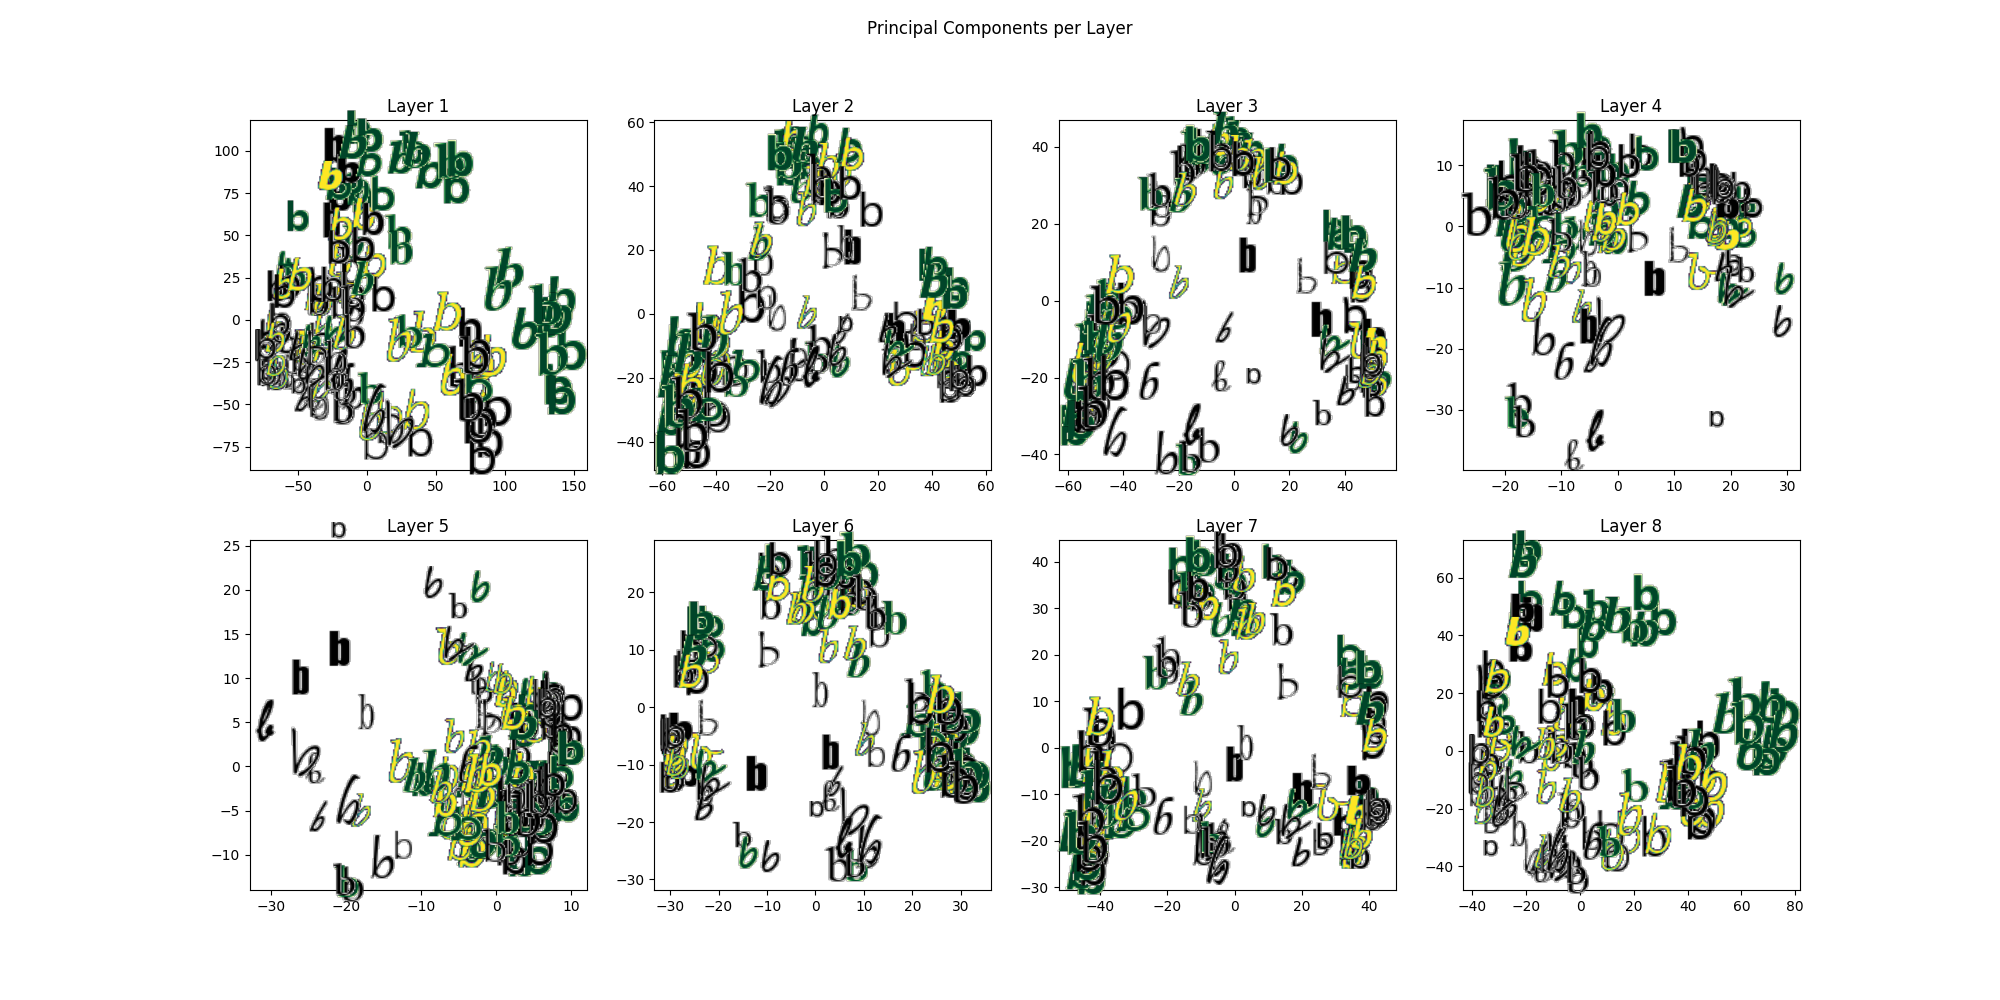
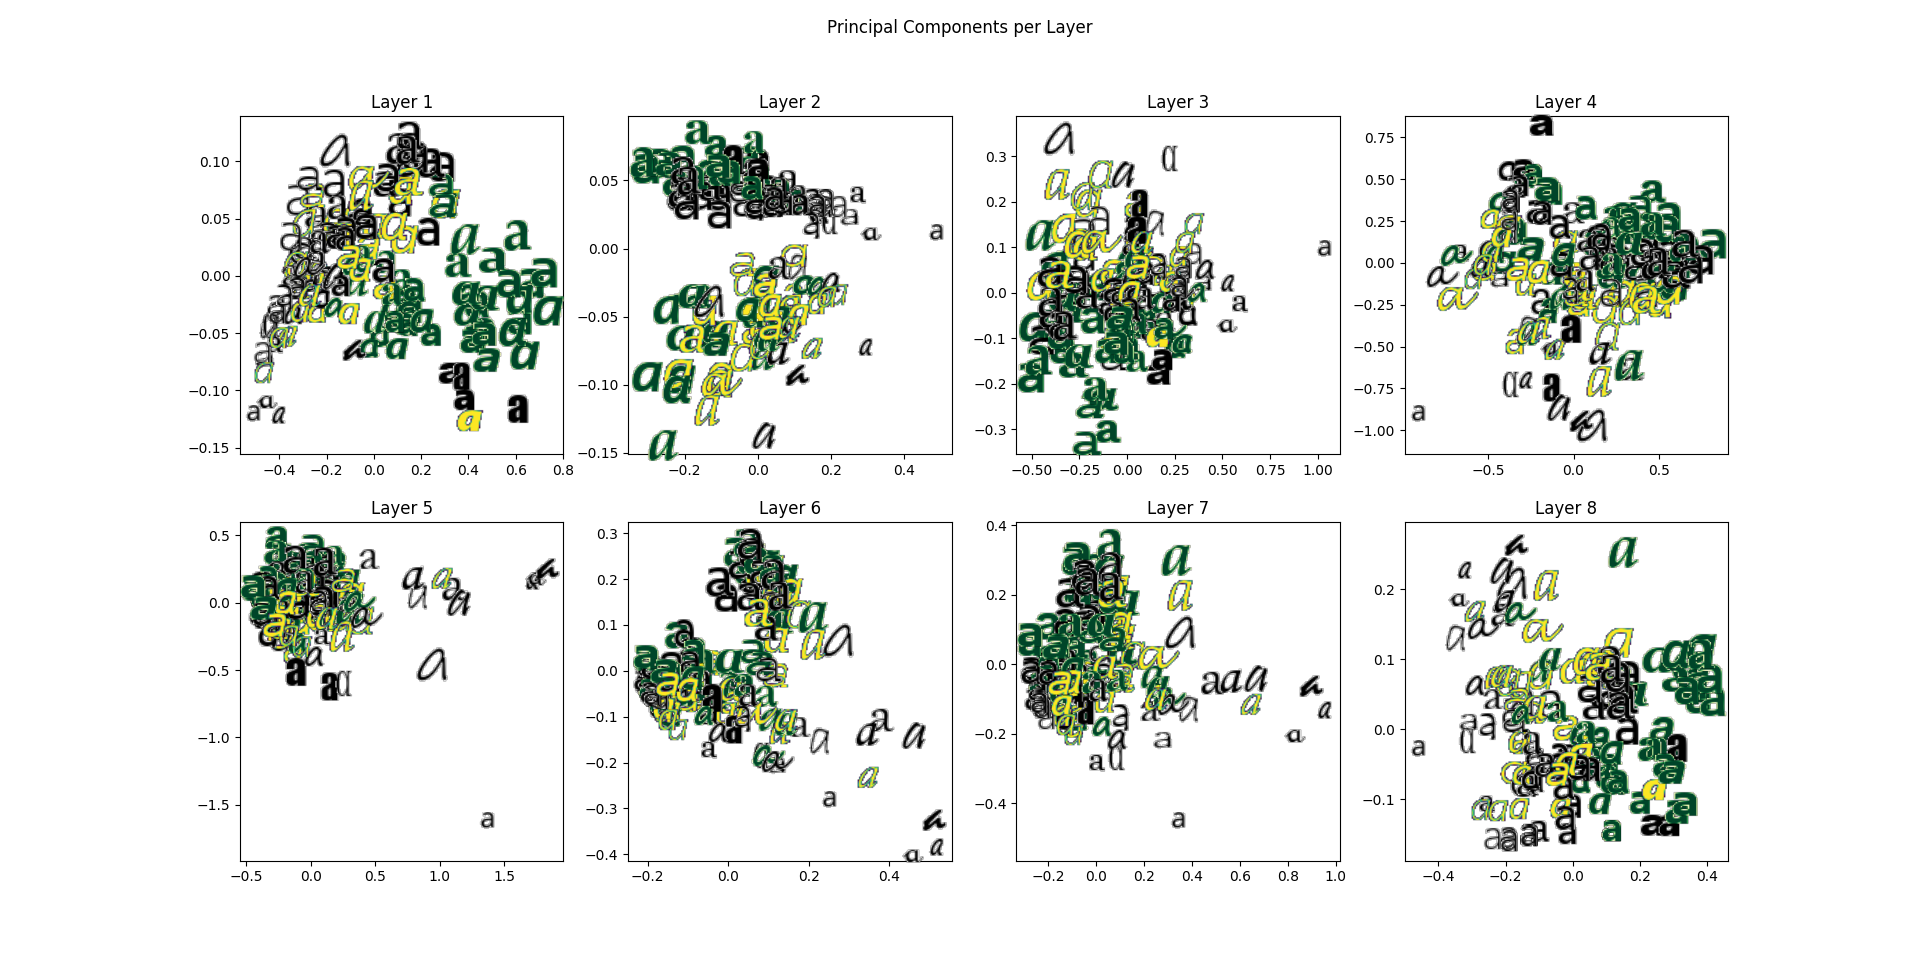
Extra small changes to visualizations

diff --git a/style/testing.py b/style/testing.py
@@ -67,174 +67,175 @@ def diff(matrix):
 
 # TODO: Refactor the mess
 if __name__ == "__main__":
-    model, config = UNet.load(os.path.join("checkpoints", "latest"))
+    model, config = UNet.load(os.path.join("..", "checkpoints", "latest"))
 
-    config.dataset.directory = os.path.join("data")
+    config.dataset.directory = os.path.join("..", "data")
     dataset = FontData(config.dataset, training=False)
 
     layers = config.model.layers * 2
 
-    # standardFonts = {
-    #     "Calibri": ["Regular", "Bold Italic", "Light Italic", "Light", "Italic", "Bold"],
-    #     "Arial": ["Regular", "Narrow", "Narrow Italic", "Narrow Bold Italic", "Narrow Bold",
-    #               "Italic", "Bold Italic", "Bold"],
-    #     "Times New Roman": ["Regular", "Bold", "Bold Italic", "Italic"]
-    # }
+    standardFonts = {
+        "Calibri": ["Regular", "Bold Italic", "Light Italic", "Light", "Italic", "Bold"],
+        "Arial": ["Regular", "Narrow", "Narrow Italic", "Narrow Bold Italic", "Narrow Bold",
+                  "Italic", "Bold Italic", "Bold"],
+        "Times New Roman": ["Regular", "Bold", "Bold Italic", "Italic"]
+    }
 
-    # # Compiling all available samples for the standard fonts
-    # namespaces = {font: {"reference": None} for font in standardFonts}
-    # for font in standardFonts:
-    #     for style in standardFonts[font]:
-    #         space = dataset.names == f"{font} {style}"
-    #         if namespaces[font]["reference"] is None:
-    #             namespaces[font]["reference"] = space
-    #             continue
-    #         namespaces[font][style] = space
+    # Compiling all available samples for the standard fonts
+    namespaces = {font: {"reference": None} for font in standardFonts}
+    for font in standardFonts:
+        for style in standardFonts[font]:
+            space = dataset.names == f"{font} {style}"
+            if namespaces[font]["reference"] is None:
+                namespaces[font]["reference"] = space
+                continue
+            namespaces[font][style] = space
 
-    # # Getting reference "unstyled" glyph predictions and targets
-    # references = {}
-    # for font in namespaces:
-    #     namespace = namespaces[font]["reference"]
-    #     inputs = dataset.pairs[namespace][:, 0]
-    #     targets = dataset.pairs[namespace][:, 1]
-    #     with torch.no_grad():
-    #         inputs = torch.tensor(inputs, dtype=torch.float32).squeeze().unsqueeze(-1)
-    #         output, classification = model(inputs)
-    #     references[font] = output, targets
+    # Getting reference "unstyled" glyph predictions and targets
+    references = {}
+    for font in namespaces:
+        namespace = namespaces[font]["reference"]
+        inputs = dataset.pairs[namespace][:, 0]
+        targets = dataset.pairs[namespace][:, 1]
+        with torch.no_grad():
+            inputs = torch.tensor(inputs, dtype=torch.float32).squeeze().unsqueeze(-1)
+            output, classification = model(inputs)
+        references[font] = output, targets
 
-    # for font in namespaces:
-    #     series = {}
-    #     for style in namespaces[font]:
-    #         if style == "reference":
-    #             continue
+    for font in namespaces:
+        series = {}
+        for style in namespaces[font]:
+            if style == "reference":
+                continue
 
-    #         namespace = namespaces[font][style]
-    #         inputs = dataset.pairs[namespace][:, 0]
-    #         targets = dataset.pairs[namespace][:, 1]
-    #         with torch.no_grad():
-    #             inputs = torch.tensor(inputs, dtype=torch.float32).squeeze().unsqueeze(-1)
-    #             output, classification = model(inputs)
+            namespace = namespaces[font][style]
+            inputs = dataset.pairs[namespace][:, 0]
+            targets = dataset.pairs[namespace][:, 1]
+            with torch.no_grad():
+                inputs = torch.tensor(inputs, dtype=torch.float32).squeeze().unsqueeze(-1)
+                output, classification = model(inputs)
 
-    #         referenceOrder = dataset.letters[namespaces[font]["reference"]]
-    #         styleOrder = dataset.letters[namespace]
+            referenceOrder = dataset.letters[namespaces[font]["reference"]]
+            styleOrder = dataset.letters[namespace]
 
-    #         refPred, refTarget = references[font]
+            refPred, refTarget = references[font]
 
-    #         referenceDF = pd.DataFrame({"letter": referenceOrder,
-    #                                     "refTarget": listify(refTarget), "refPrediction": listify(refPred)})
-    #         styleDF = pd.DataFrame({"letter": styleOrder,
-    #                                 "styleTarget": listify(targets), "stylePrediction": listify(output)})
+            referenceDF = pd.DataFrame({"letter": referenceOrder,
+                                        "refTarget": listify(refTarget), "refPrediction": listify(refPred)})
+            styleDF = pd.DataFrame({"letter": styleOrder,
+                                    "styleTarget": listify(targets), "stylePrediction": listify(output)})
 
-    #         joined = pd.merge(styleDF, referenceDF, how="inner", on="letter")
+            joined = pd.merge(styleDF, referenceDF, how="inner", on="letter")
 
-    #         series[f"{style} ({len(joined)})"] = [
-    #             batchCorrelation(joined.refTarget.to_numpy()[i], joined.styleTarget.to_numpy()[i],
-    #                              joined.refPrediction.to_numpy()[i], joined.stylePrediction.to_numpy()[i])[0]
-    #             for i in range(len(joined))
-    #         ]
+            series[f"{style} ({len(joined)})"] = [
+                batchCorrelation(joined.refTarget.to_numpy()[i], joined.styleTarget.to_numpy()[i],
+                                 joined.refPrediction.to_numpy()[i], joined.stylePrediction.to_numpy()[i])[0]
+                for i in range(len(joined))
+            ]
 
-    #     x = series.keys()
-    #     y = [series[key] for key in x]
+        x = series.keys()
+        y = [series[key] for key in x]
 
-    #     ax = plt.subplot(1, 1, 1)
-    #     ax.boxplot(y)
-    #     ax.set_xticklabels(x)
-    #     # ax.set_xticks(range(1, len(x) + 1), x, rotation=45)
-    #     ax.set_xlabel("Style")
-    #     ax.set_ylabel("Correlation")
-    #     ax.grid()
+        ax = plt.subplot(1, 1, 1)
+        ax.boxplot(y)
+        ax.set_xticklabels(x)
+        # ax.set_xticks(range(1, len(x) + 1), x, rotation=45)
+        ax.set_xlabel("Style")
+        ax.set_ylabel("Correlation")
+        ax.grid()
 
-    #     plt.title(f"{font} Style Correlations")
-    #     plt.show()
+        plt.title(f"{font} Style Correlations")
+        plt.show()
 
     # # Getting all the activations for every font with every character in the latin alphabet
-    # comparativeFonts = ["Edwardian Script ITC", "Calibri", "Comic Sans MS", "Broadway", "Jokerman", "Wide Latin"]
+    comparativeFonts = ["Edwardian Script IT", "Pristina", "Calibri", "Comic Sans MS", "Impact", "Broadway", "Jokerman"]
     testCharacters = [chr(c) for c in latin]
-    # ablationActivations = []
-    # for font in comparativeFonts:
-    #     fontActivations = []
-    #     for character in testCharacters:
-    #         # Just plainly wasteful, but keeps things in order without sorting so idc
-    #         if np.sum(np.bitwise_and(dataset.names == f"{font} Regular", dataset.letters == character)) == 0:
-    #             print(font, character)
-    #         pair = dataset.pairs[np.bitwise_and(dataset.names == f"{font} Regular", dataset.letters == character)]
-    #         with torch.no_grad():
-    #             inputs = torch.tensor(pair[:, 0], dtype=torch.float32).squeeze().unsqueeze(0).unsqueeze(-1)
-    #             activations = model.activations(inputs)
-    #         fontActivations.append(activations)
+    ablationActivations = []
+    for font in comparativeFonts:
+        fontActivations = []
+        for character in testCharacters:
+            # Just plainly wasteful, but keeps things in order without sorting so idc
+            if np.sum(np.bitwise_and(dataset.names == f"{font} Regular", dataset.letters == character)) == 0:
+                print(font, character)
+            pair = dataset.pairs[np.bitwise_and(dataset.names == f"{font} Regular", dataset.letters == character)]
+            with torch.no_grad():
+                inputs = torch.tensor(pair[:, 0], dtype=torch.float32).squeeze().unsqueeze(0).unsqueeze(-1)
+                activations = model.activations(inputs)
+            fontActivations.append(activations)
 
-    #     ablationActivations.append(fontActivations)
+        ablationActivations.append(fontActivations)
 
-    # # All possible combinations of layer activation similarities
-    # # Yes this is perhaps the single most revolting bit of code I have ever written
-    # ablationMatrix = np.zeros([layers, len(comparativeFonts), len(comparativeFonts), len(testCharacters), len(testCharacters)])
-    # for f1 in range(len(comparativeFonts)):
-    #     for f2 in range(len(comparativeFonts)):
-    #         for c1 in range(len(testCharacters)):
-    #             for c2 in range(len(testCharacters)):
-    #                 for l in range(layers):
-    #                     x = ablationActivations[f1][c1][l].flatten()
-    #                     y = ablationActivations[f2][c2][l].flatten()
-    #                     ablationMatrix[l, f1, f2, c1, c2] = nn.functional.cosine_similarity(x, y, dim=0).item()
+    # All possible combinations of layer activation similarities
+    # Yes this is perhaps the single most revolting bit of code I have ever written
+    ablationMatrix = np.zeros([layers, len(comparativeFonts), len(comparativeFonts), len(testCharacters), len(testCharacters)])
+    for f1 in range(len(comparativeFonts)):
+        for f2 in range(len(comparativeFonts)):
+            for c1 in range(len(testCharacters)):
+                for c2 in range(len(testCharacters)):
+                    for l in range(layers):
+                        x = ablationActivations[f1][c1][l].flatten()
+                        y = ablationActivations[f2][c2][l].flatten()
+                        ablationMatrix[l, f1, f2, c1, c2] = nn.functional.cosine_similarity(x, y, dim=0).item()
 
     width = int(math.ceil(math.sqrt(layers * 2)))
     height = int(math.ceil(layers / width))
-    # for layer in range(layers):
-    #     mask = np.eye(len(testCharacters), dtype=bool)
-    #     mask = np.expand_dims(mask, (0, 1))
+    for layer in range(layers):
+        mask = np.eye(len(testCharacters), dtype=bool)
+        mask = np.expand_dims(mask, (0, 1))
 
-    #     observe = np.where(mask, 0, ablationMatrix[layer])
+        observe = np.where(mask, 0, ablationMatrix[layer])
         
-    #     # Weighted sum (char 1 = char 2 has a weight of 0)
-    #     correlation = np.sum(observe, axis=(2, 3))
-    #     correlation = correlation / np.sum(~mask, axis=(2, 3))
+        # Weighted sum (char 1 = char 2 has a weight of 0)
+        correlation = np.sum(observe, axis=(2, 3))
+        correlation = correlation / np.sum(~mask, axis=(2, 3))
 
-    #     ax = plt.subplot(height, width, layer + 1)
-    #     ax.set_title(f"Layer {layer + 1} (Mean Diff: {diff(correlation):.2f})")
+        ax = plt.subplot(height, width, layer + 1)
+        ax.set_title(f"Layer {layer + 1} (Mean Diff: {diff(correlation):.2f})")
 
-    #     correlation = np.flip(correlation, axis=0)
-    #     ax.imshow(correlation, cmap="binary_r", vmin=0, vmax=1)
+        correlation = np.flip(correlation, axis=0)
+        ax.imshow(correlation, cmap="binary_r", vmin=0, vmax=1)
 
-    #     ax.set_xticks(range(len(comparativeFonts)), comparativeFonts, rotation=45, ha="right", rotation_mode="anchor")
-    #     ax.set_yticks(range(len(comparativeFonts)), comparativeFonts[::-1])
+        ax.set_xticks(range(len(comparativeFonts)), comparativeFonts, rotation=45, ha="right", rotation_mode="anchor")
+        ax.set_yticks(range(len(comparativeFonts)), comparativeFonts[::-1])
 
-    #     for i in range(correlation.shape[0]):
-    #         for j in range(correlation.shape[0]):
-    #             value = correlation[i, j]
-    #             color = "k" if (value > np.percentile(correlation, 40)) else "w"
-    #             text = ax.text(j, i, f"{value:.2f}", ha="center", va="center", color=color)
+        for i in range(correlation.shape[0]):
+            for j in range(correlation.shape[0]):
+                value = correlation[i, j]
+                color = "k" if (value > np.percentile(correlation, 40)) else "w"
+                text = ax.text(j, i, f"{value:.2f}", ha="center", va="center", color=color)
 
-    # plt.suptitle("Layer Activation Cosine Similarity (c1 != c2)")
-    # plt.show()
+    plt.suptitle("Layer Activation Cosine Similarity (c1 != c2)")
+    plt.show()
 
-    # for layer in range(layers):
-    #     mask = np.eye(len(testCharacters), dtype=bool)
-    #     mask = np.expand_dims(mask, (0, 1))
+    for layer in range(layers):
+        mask = np.eye(len(testCharacters), dtype=bool)
+        mask = np.expand_dims(mask, (0, 1))
 
-    #     observe = np.where(mask, ablationMatrix[layer], 0)
+        observe = np.where(mask, ablationMatrix[layer], 0)
         
-    #     correlation = np.sum(observe, axis=(2, 3))
-    #     correlation = correlation / np.sum(mask, axis=(2, 3))
+        correlation = np.sum(observe, axis=(2, 3))
+        correlation = correlation / np.sum(mask, axis=(2, 3))
 
-    #     ax = plt.subplot(height, width, layer + 1)
-    #     ax.set_title(f"Layer {layer + 1} (Mean Diff: {diff(correlation):.2f})")
+        ax = plt.subplot(height, width, layer + 1)
+        ax.set_title(f"Layer {layer + 1} (Mean Diff: {diff(correlation):.2f})")
 
-    #     correlation = np.flip(correlation, axis=0)
-    #     ax.imshow(correlation, cmap="binary_r", vmin=0, vmax=1)
+        correlation = np.flip(correlation, axis=0)
+        ax.imshow(correlation, cmap="binary_r", vmin=0, vmax=1)
 
-    #     ax.set_xticks(range(len(comparativeFonts)), comparativeFonts, rotation=45, ha="right", rotation_mode="anchor")
-    #     ax.set_yticks(range(len(comparativeFonts)), comparativeFonts[::-1])
+        ax.set_xticks(range(len(comparativeFonts)), comparativeFonts, rotation=45, ha="right", rotation_mode="anchor")
+        ax.set_yticks(range(len(comparativeFonts)), comparativeFonts[::-1])
 
-    #     for i in range(correlation.shape[0]):
-    #         for j in range(correlation.shape[0]):
-    #             value = correlation[i, j]
-    #             color = "k" if (value > np.percentile(correlation, 40)) else "w"
-    #             text = ax.text(j, i, f"{value:.2f}", ha="center", va="center", color=color)
+        for i in range(correlation.shape[0]):
+            for j in range(correlation.shape[0]):
+                value = correlation[i, j]
+                color = "k" if (value > np.percentile(correlation, 40)) else "w"
+                text = ax.text(j, i, f"{value:.2f}", ha="center", va="center", color=color)
 
-    # plt.suptitle("Layer Activation Cosine Similarity (c1 == c2)")
-    # plt.show()
+    plt.suptitle("Layer Activation Cosine Similarity (c1 == c2)")
+    plt.show()
 
     # Only latin characters, prevents character set skew
+    testCharacters = ["b"]
     mask = np.isin(dataset.letters, np.array(testCharacters))
     pairs = dataset.pairs[mask]
     names = dataset.names[mask]
@@ -268,7 +269,7 @@ if __name__ == "__main__":
                         activationCounts[layer][name] = 1
 
                     # Add reference image to dictionary
-                    if name not in allImages and batchLetters[n] == "a":
+                    if name not in allImages and batchLetters[n] == "b":
                         allImages[name] = batchImages[n]
 
         print(f"\r{j}/{len(pairs)} samples for PCA compiled", end="")
@@ -289,8 +290,8 @@ if __name__ == "__main__":
         components = PCA(n_components=2)
         data = torch.stack([value for key, value in allActivations[layer].items()], dim=0).cpu().numpy()
         shape = data.shape
-        # data = np.mean(data, axis=(2, 3))
-        data = data.reshape(data.shape[0], -1)
+        data = np.mean(data, axis=(2, 3))
+        # data = data.reshape(data.shape[0], -1)
         print(f"Training PCA from {data.shape[1]} -> 2 dimensions for layer {layer + 1} (Originally {shape})")
 
         transformed = components.fit_transform(data)

diff --git a/utils/data.py b/utils/data.py
@@ -84,24 +84,25 @@ class FontData(Dataset):
             print(f"\rFonts serialized: {f + 1}/{len(fontPaths)}", end="")
 
         # Creating SDFs from all the bitmaps
-        imagePaths = glob(os.path.join(config.directory, "bitmaps", "*"))
-        for i, imagePath in enumerate(imagePaths):
-            try:
-                path = os.path.join(config.directory, "sdf", os.path.basename(imagePath).removesuffix(".bmp") + ".npy")
-                if os.path.exists(path):
-                    continue
+        if config.maps == "sdf":
+            imagePaths = glob(os.path.join(config.directory, "bitmaps", "*"))
+            for i, imagePath in enumerate(imagePaths):
+                try:
+                    path = os.path.join(config.directory, "sdf", os.path.basename(imagePath).removesuffix(".bmp") + ".npy")
+                    if os.path.exists(path):
+                        continue
 
-                img = np.array(Image.open(imagePath))
+                    img = np.array(Image.open(imagePath))
 
-                # Magic for sdf generation
-                bits = img > (np.max(img) - np.min(img)) / 2
-                sdf = dist(bits) - dist(~bits)
+                    # Magic for sdf generation
+                    bits = img > (np.max(img) - np.min(img)) / 2
+                    sdf = dist(bits) - dist(~bits)
 
-                np.save(path, sdf / imageSize)
-            except Image.UnidentifiedImageError:
-                print(imagePath, "Unidentified")
+                    np.save(path, sdf / imageSize)
+                except Image.UnidentifiedImageError:
+                    print(imagePath, "Unidentified")
 
-            print(f"\rSDFs generated: {i + 1}/{len(imagePaths)}", end="")
+                print(f"\rSDFs generated: {i + 1}/{len(imagePaths)}", end="")
 
         # Lets us choose what kind of images to train on
         images = {}
